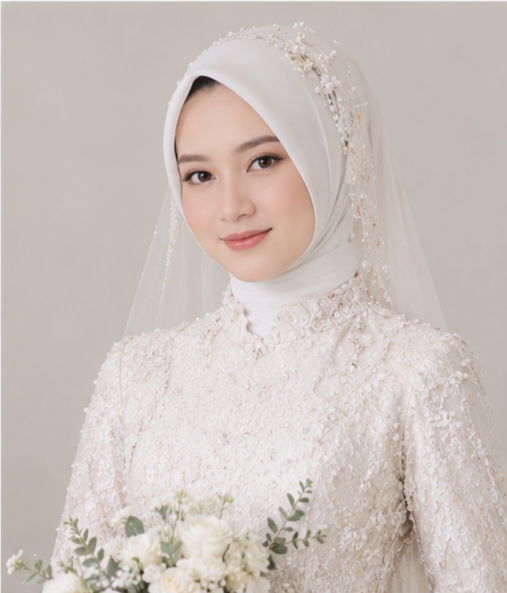
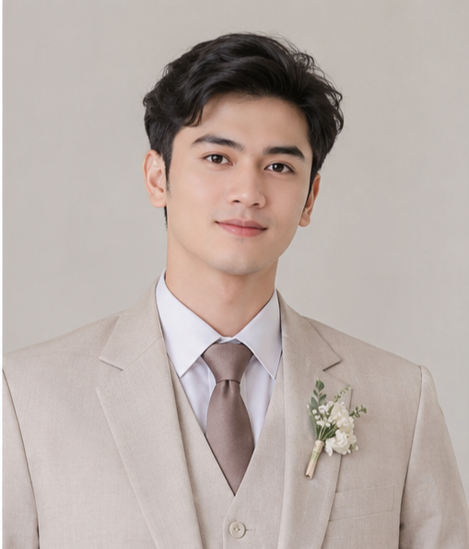
Perbarui foto undangan

diff --git a/script.js b/script.js
@@ -33,24 +33,7 @@ tombolMusik.addEventListener("click", function () {
         tombolMusik.textContent = "♫ Putar Lagu";
     }
 });
-
-// Hitung mundur acara
-const tanggalAcara = new Date("2026-12-20T09:00:00+07:00").getTime();
-const elemenCountdown = document.getElementById("hitung-mundur");
-
-function perbaruiCountdown() {
-    const sekarang = Date.now();
-    const selisih = tanggalAcara - sekarang;
-
-    
-}
-
-perbaruiCountdown();
-setInterval(perbaruiCountdown, 1000);
-
 // Formulir ucapan
-
-
 const formUcapan = document.getElementById("form-ucapan");
 
 formUcapan.addEventListener("submit", async function (event) {

diff --git a/index.html b/index.html
@@ -95,7 +95,7 @@
             <h2>Galeri Foto</h2>
 
             <div class="galeri">
-                <img src="assets/foto-1.jpg" alt="Foto kenangan 1">
+                <img src="assets/foto-1.png" alt="Foto kenangan 1">
                 <img src="assets/foto-2.jpg" alt="Foto kenangan 2">
                 <img src="assets/foto-3.jpg" alt="Foto kenangan 3">
             </div>
